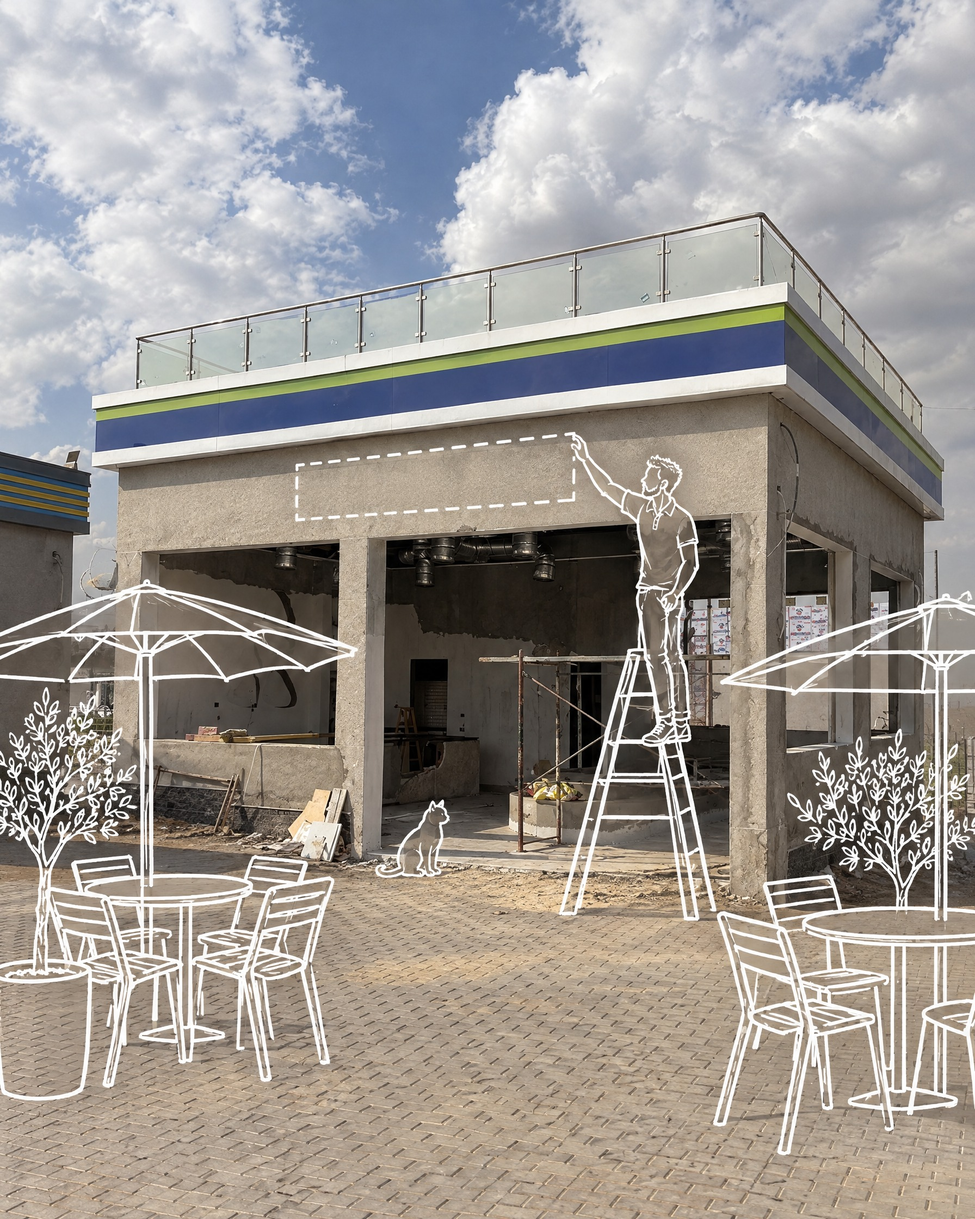
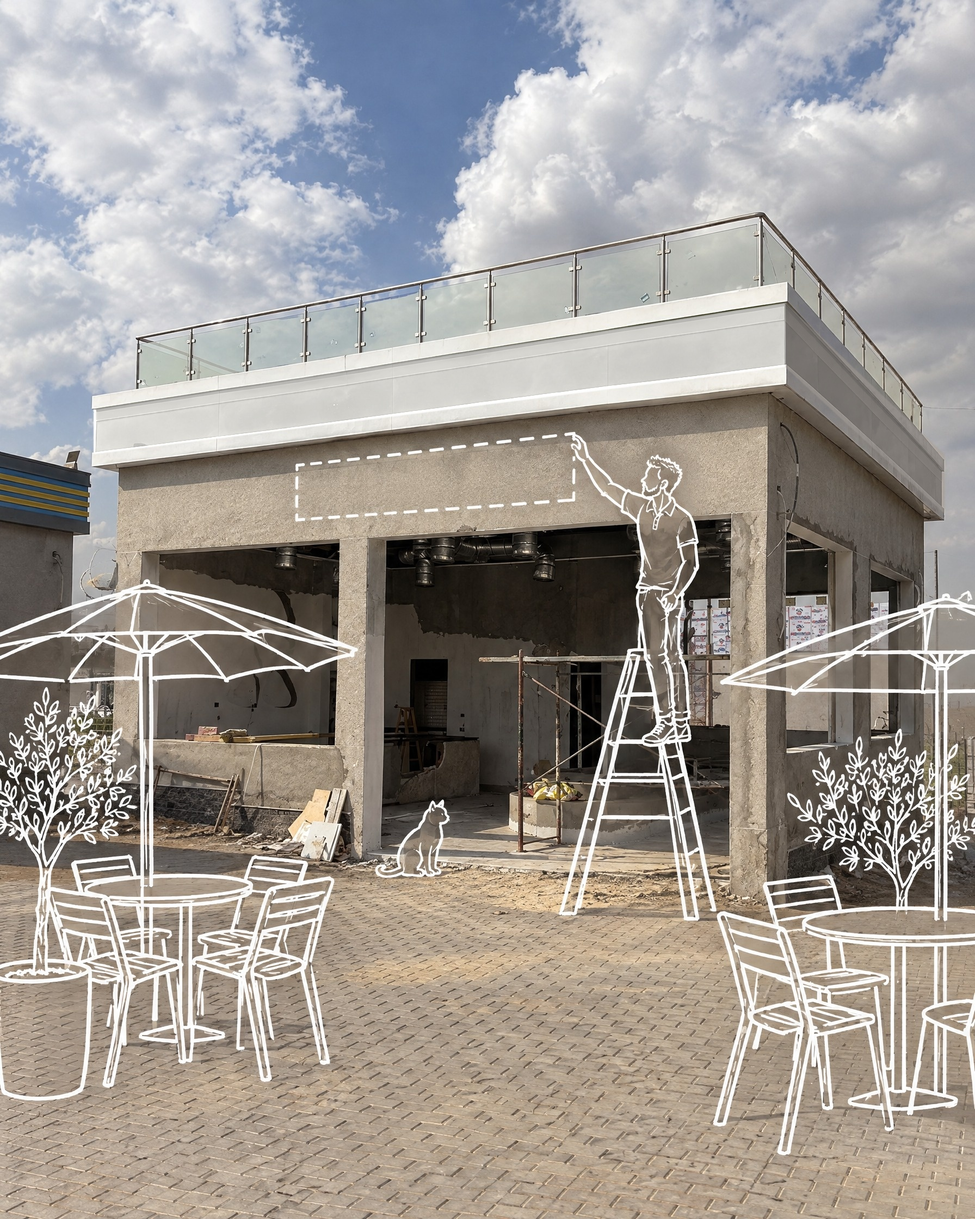
Retouch slide 05: neutralize blue/green fascia band
The building's existing fascia colors are replaced with a neutral panel
tone that keeps the original shading and seams. Original kept as
source/gen/s5-original.jpg. Profile mockups re-rendered.

Claude-Session: https://claude.ai/code/session_01Ya3rs9EjKNZ33ymPJv4Tix

Changed region(s): [[0.0938, 0.25, 0.9688, 0.4062]]

diff --git a/campaign/index.html b/campaign/index.html
@@ -117,6 +117,6 @@ footer{padding-block:48px 72px;border-top:1px solid var(--line);color:var(--mute
 
 <footer>
   <span>Made with Higgsfield (GPT Image 2.5, MiniMax H3), composited in brand type.</span>
-  <span>Before posting: slide 05 shows the building's existing blue and green fascia; retouch or crop it if it reads as another brand.</span>
+  <span>Slide 05: the building's blue and green fascia has been retouched to a neutral panel.</span>
 </footer>
 </div>

diff --git a/campaign/README.md b/campaign/README.md
@@ -64,6 +64,6 @@ python3 tools/reel.py "$PWD/source" 02-same-room-soon-reel
 
 ## Before posting
 
-- Slide 05 shows the existing blue and green fascia band of the building. It is real, but it is not
-  Refill's colour. Retouch it to plaster or crop tighter if it reads as another brand.
+- Slide 05: the blue and green fascia band has been retouched to a neutral panel (original kept as
+  `source/gen/s5-original.jpg`). The small neighbouring building at the far left edge is untouched.
 - The REFILL sign on slide 05 and every line of type are set in real Montserrat, not AI-generated text.
